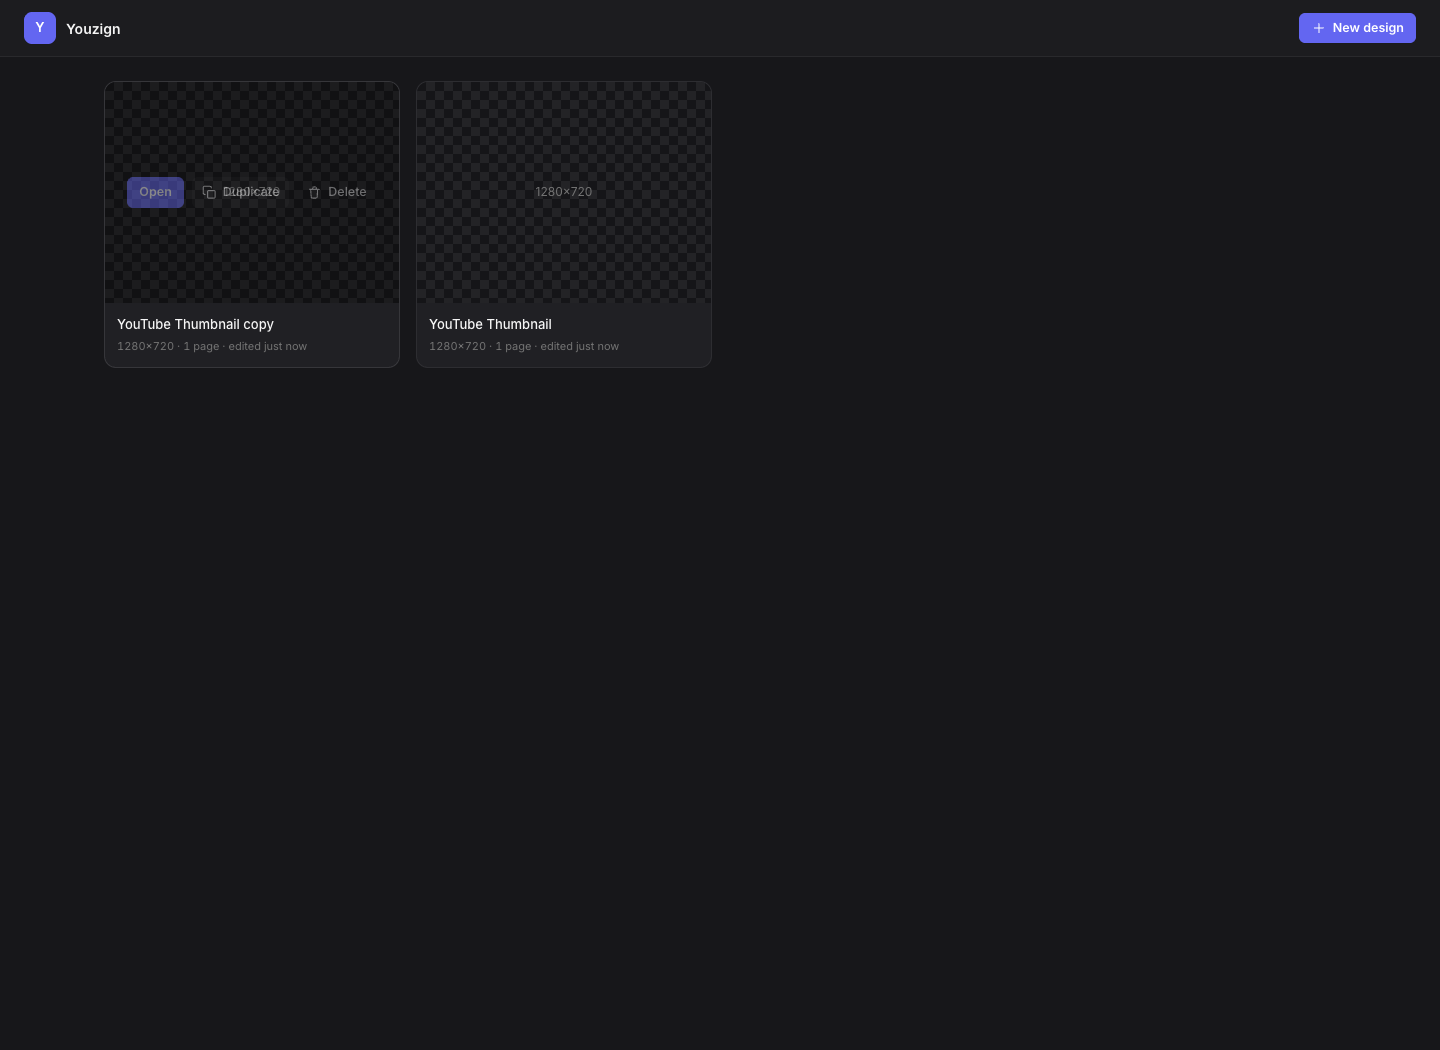
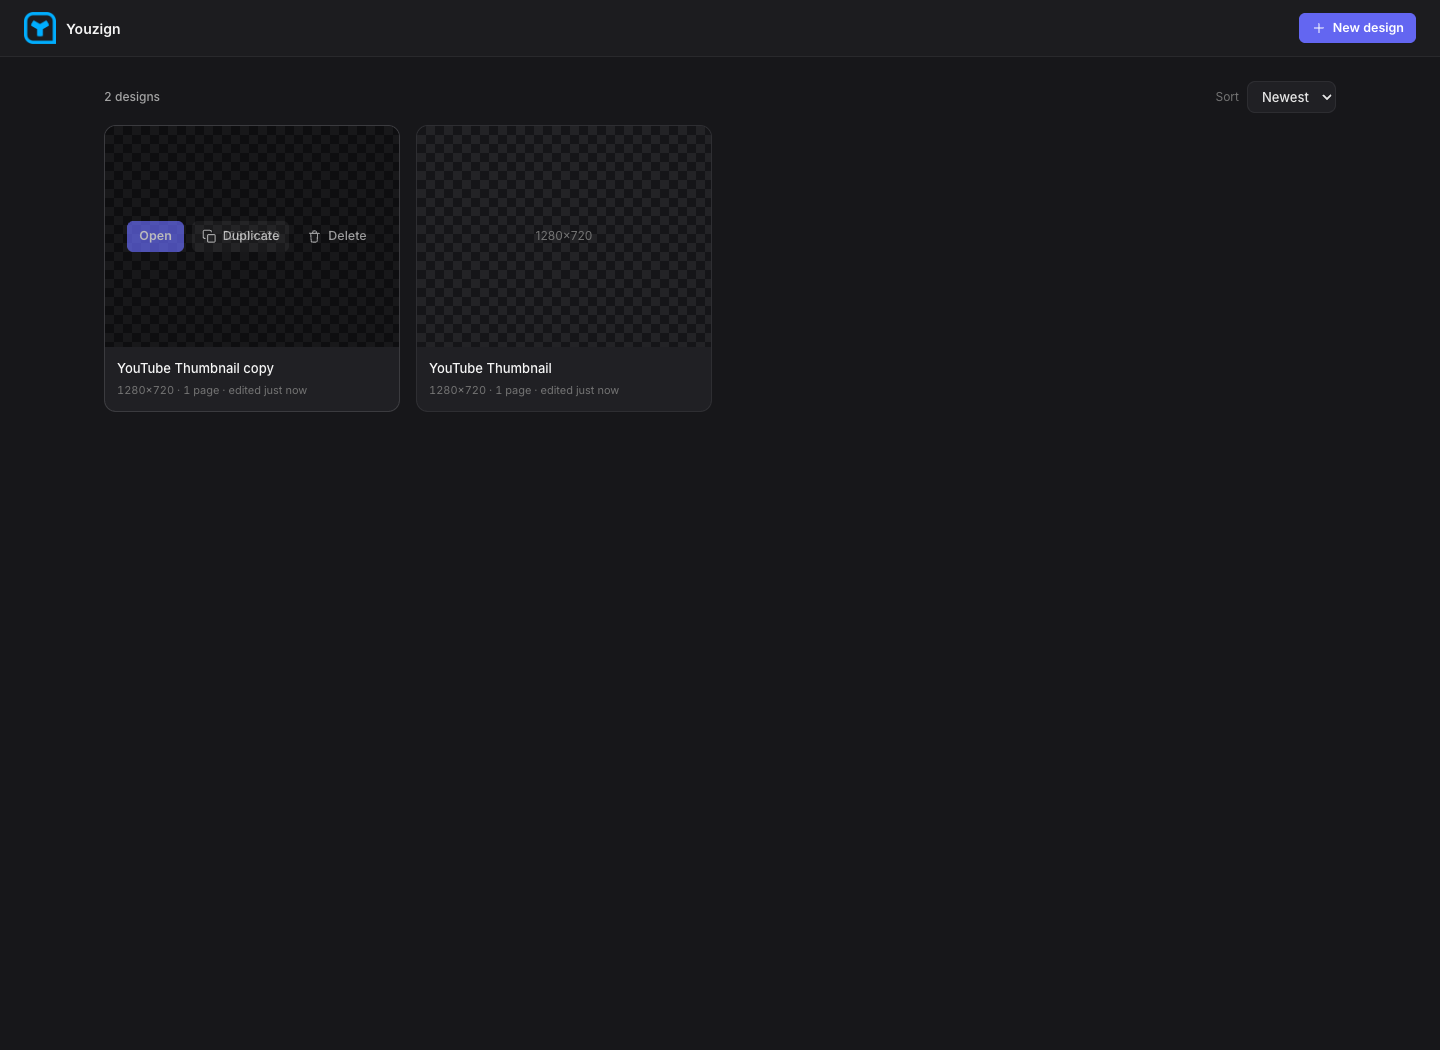
feat(editor): dashboard pagination/sort, crop UX, A.I. rename, header parity
Pagination (24/page, calm pager) + Newest/Oldest sort; dbl-click-crop
removed (edge handles own it); edge handles now rounded pill bars;
Magic Edit toolbar 380px floor (usable prompt on small images); corner
radius preset chips 10/20/40; 'Magic'→'A.I.'; dashboard/editor headers
pinned to identical 49px so the chrome reads static across screens.

diff --git a/apps/editor/src/components/Dashboard.tsx b/apps/editor/src/components/Dashboard.tsx
@@ -10,13 +10,18 @@ import {
 } from "@youzign/editor-core";
 import {
   allDocuments,
+  DASHBOARD_PAGE_SIZE,
   deleteDocument,
   documentMetaLine,
+  pageCount,
+  pageDocuments,
   duplicateRecord,
   migrateLocalStorageAutosaves,
   onDocumentsChanged,
   putDocument,
   shapeDocumentRecord,
+  sortDocuments,
+  type DocumentSortOrder,
   type DocumentRecord,
 } from "../library/documents.js";
 import { fileToUploadRecord, isAcceptedFile } from "../library/uploads.js";
@@ -328,6 +333,8 @@ function NewDesignModal({ onClose }: { onClose: () => void }) {
 export function Dashboard() {
   const [docs, setDocs] = useState<DocumentRecord[]>([]);
   const [modal, setModal] = useState(false);
+  const [sortOrder, setSortOrder] = useState<DocumentSortOrder>("newest");
+  const [page, setPage] = useState(1);
 
   const refresh = async () => setDocs(await allDocuments());
 
@@ -337,12 +344,30 @@ export function Dashboard() {
   }, []);
 
   const quick = QUICK_PRESETS.map((id) => CANVAS_PRESETS.find((p) => p.id === id)).filter(Boolean) as CanvasPreset[];
+  const sortedDocs = useMemo(() => sortDocuments(docs, sortOrder), [docs, sortOrder]);
+  const pages = pageCount(sortedDocs.length, DASHBOARD_PAGE_SIZE);
+  const currentPage = Math.min(page, Math.max(1, pages));
+  const visibleDocs = useMemo(
+    () => pageDocuments(sortedDocs, currentPage, DASHBOARD_PAGE_SIZE),
+    [sortedDocs, currentPage]
+  );
+  const docCountLabel = `${docs.length} ${docs.length === 1 ? "design" : "designs"}`;
+
+  useEffect(() => {
+    setPage(1);
+  }, [sortOrder]);
+
+  useEffect(() => {
+    if (page > Math.max(1, pages)) setPage(Math.max(1, pages));
+  }, [page, pages]);
 
   return (
     <div className="min-h-full bg-[#17171a] text-neutral-200">
-      <header className="sticky top-0 z-10 flex items-center justify-between border-b border-white/[0.06] bg-[#1c1c1f] px-6 py-3">
+      {/* Same paddings/logo size as the editor TopBar so the header reads as
+          static when switching between dashboard and editor. */}
+      <header className="sticky top-0 z-10 flex h-[49px] items-center justify-between border-b border-white/[0.06] bg-[#1c1c1f] px-3">
         <div className="flex items-center gap-2.5">
-          <img src="/brand/youzign-logo.png" alt="Youzign" className="h-8 w-8" />
+          <img src="/brand/youzign-logo.png" alt="Youzign" className="h-7 w-7" />
           <span className="text-[14px] font-semibold text-neutral-100">Youzign</span>
         </div>
         <button className={accentBtn} onClick={() => setModal(true)} data-testid="new-design">
@@ -352,11 +377,61 @@ export function Dashboard() {
 
       <main className="mx-auto max-w-7xl px-6 py-6">
         {docs.length > 0 ? (
-          <div className="grid grid-cols-1 gap-4 sm:grid-cols-2 lg:grid-cols-3 xl:grid-cols-4" data-testid="dashboard-grid">
-            {docs.map((rec) => (
-              <DesignCard key={rec.id} rec={rec} onRefresh={() => void refresh()} />
-            ))}
-          </div>
+          <>
+            <div className="mb-3 flex items-center justify-between gap-3">
+              <div className="text-[12px] font-medium tabular-nums text-neutral-400">{docCountLabel}</div>
+              <label className="flex items-center gap-2 text-[12px] text-neutral-500">
+                <span>Sort</span>
+                <select
+                  value={sortOrder}
+                  onChange={(e) => setSortOrder(e.target.value as DocumentSortOrder)}
+                  className="rounded-lg border border-white/[0.06] bg-[#202024] px-2.5 py-1.5 text-[13px] font-medium text-neutral-200 outline-none transition-colors duration-150 hover:border-white/15 focus:border-[var(--accent)]"
+                >
+                  <option value="newest">Newest</option>
+                  <option value="oldest">Oldest</option>
+                </select>
+              </label>
+            </div>
+            <div className="grid grid-cols-1 gap-4 sm:grid-cols-2 lg:grid-cols-3 xl:grid-cols-4" data-testid="dashboard-grid">
+              {visibleDocs.map((rec) => (
+                <DesignCard key={rec.id} rec={rec} onRefresh={() => void refresh()} />
+              ))}
+            </div>
+            {pages > 1 && (
+              <nav className="mt-5 flex items-center justify-center gap-1" aria-label="Design pages">
+                <button
+                  className="flex h-8 min-w-8 items-center justify-center rounded-lg px-2 text-[13px] font-medium text-neutral-400 transition-colors duration-150 hover:bg-white/[0.06] hover:text-neutral-100 disabled:pointer-events-none disabled:opacity-35"
+                  onClick={() => setPage((p) => Math.max(1, p - 1))}
+                  disabled={currentPage === 1}
+                  aria-label="Previous page"
+                >
+                  ‹
+                </button>
+                {Array.from({ length: pages }, (_, i) => i + 1).map((p) => (
+                  <button
+                    key={p}
+                    className={`flex h-8 min-w-8 items-center justify-center rounded-lg px-2 text-[13px] font-medium tabular-nums transition-colors duration-150 ${
+                      p === currentPage
+                        ? "bg-[var(--accent)] text-white"
+                        : "text-neutral-400 hover:bg-white/[0.06] hover:text-neutral-100"
+                    }`}
+                    onClick={() => setPage(p)}
+                    aria-current={p === currentPage ? "page" : undefined}
+                  >
+                    {p}
+                  </button>
+                ))}
+                <button
+                  className="flex h-8 min-w-8 items-center justify-center rounded-lg px-2 text-[13px] font-medium text-neutral-400 transition-colors duration-150 hover:bg-white/[0.06] hover:text-neutral-100 disabled:pointer-events-none disabled:opacity-35"
+                  onClick={() => setPage((p) => Math.min(pages, p + 1))}
+                  disabled={currentPage === pages}
+                  aria-label="Next page"
+                >
+                  ›
+                </button>
+              </nav>
+            )}
+          </>
         ) : (
           <section>
             <div className="mb-3 text-[13px] font-medium text-neutral-300">Start a new design</div>

diff --git a/apps/editor/src/components/CanvasStage.tsx b/apps/editor/src/components/CanvasStage.tsx
@@ -129,7 +129,6 @@ export function CanvasStage() {
   const applyMagicBlur = useEditor((s) => s.applyMagicBlur);
   const cancelMagicBlur = useEditor((s) => s.cancelMagicBlur);
   const bgProcessingUids = useEditor((s) => s.bgProcessingUids);
-  const beginCrop = useEditor((s) => s.beginCrop);
   const cancelCrop = useEditor((s) => s.cancelCrop);
   const commitCrop = useEditor((s) => s.commitCrop);
   const addPhoto = useEditor((s) => s.addPhoto);
@@ -431,10 +430,6 @@ export function CanvasStage() {
       setEditing(uid);
       return;
     }
-    if (item.type === "image") {
-      beginCrop(uid);
-      return;
-    }
     if (item.type === "group") {
       // Drill into the topmost child under the cursor.
       const group = findGroup(design, uid);
@@ -647,13 +642,19 @@ export function CanvasStage() {
               const showHandles = selectedIsTopLevel && !isText && !locked;
               const showRotate = selectedIsTopLevel && !locked;
               const isImageSel = singleItem?.type === "image";
-              const handleVisual: CSSProperties = {
-                width: 12,
-                height: 12,
+              const handleFill: CSSProperties = {
                 background: "#fff",
                 border: "1.5px solid var(--accent)",
-                borderRadius: 3,
                 boxShadow: "0 1px 3px rgba(0,0,0,0.35)",
+              };
+              const handleVisual = (id: HandleId): CSSProperties => {
+                if (id === "n" || id === "s") {
+                  return { ...handleFill, width: 18, height: 5, borderRadius: 999 };
+                }
+                if (id === "e" || id === "w") {
+                  return { ...handleFill, width: 5, height: 18, borderRadius: 999 };
+                }
+                return { ...handleFill, width: 12, height: 12, borderRadius: 3 };
               };
               const renderHandle = (id: HandleId) => (
                 <div
@@ -674,7 +675,7 @@ export function CanvasStage() {
                   }}
                   onPointerDown={(e) => startTransform(e, single, "resize", id)}
                 >
-                  <div style={handleVisual} />
+                  <div style={handleVisual(id)} />
                 </div>
               );
               return (
@@ -1370,9 +1371,16 @@ function MagicEraseOverlay({
           style={{ position: "absolute", inset: 0, width: dispW, height: dispH, pointerEvents: "none" }}
         />
       </div>
-      {/* toolbar */}
+      {/* toolbar — never narrower than 380px so the Edit prompt stays usable
+          on small images; centered under the item when wider than it. */}
       <div
-        style={{ position: "absolute", left: px(boxLeft), top: px(boxTop + item.height) + 8, width: dispW }}
+        style={{
+          position: "absolute",
+          left: px(boxLeft + item.width / 2),
+          top: px(boxTop + item.height) + 8,
+          width: Math.max(dispW, 380),
+          transform: "translateX(-50%)",
+        }}
         onPointerDown={(e) => e.stopPropagation()}
       >
         <div className="flex items-center gap-3 rounded-lg bg-neutral-900/95 px-3 py-2 shadow-lg ring-1 ring-white/10">

diff --git a/apps/editor/src/components/PropertiesPanel.tsx b/apps/editor/src/components/PropertiesPanel.tsx
@@ -368,13 +368,30 @@ function CornerRadiusBlock({ any, patch }: { any: any; patch: (p: ItemPatch) => 
           />
         </div>
       ) : (
-        <NumberField
-          label="Radius"
-          value={tl}
-          onChange={(v) => setAll(Math.max(0, v))}
-          min={0}
-          unit="px"
-        />
+        <div className="flex items-center gap-1.5">
+          <div className="min-w-0 flex-1">
+            <NumberField
+              label="Radius"
+              value={tl}
+              onChange={(v) => setAll(Math.max(0, v))}
+              min={0}
+              unit="px"
+            />
+          </div>
+          {[10, 20, 40].map((v) => (
+            <button
+              key={v}
+              onClick={() => setAll(v)}
+              className={`h-7 rounded-md px-2 text-[11px] tabular-nums transition-colors duration-150 ${
+                tl === v
+                  ? "bg-[var(--accent)] text-white"
+                  : "bg-white/[0.06] text-neutral-300 hover:bg-white/[0.1]"
+              }`}
+            >
+              {v}
+            </button>
+          ))}
+        </div>
       )}
     </div>
   );
@@ -790,7 +807,7 @@ function MagicSection({ uid }: { uid: number }) {
       <Divider />
       <SectionLabel>
         <span className="inline-flex items-center gap-1.5">
-          <Icon name="sparkles" size={13} /> Magic
+          <Icon name="sparkles" size={13} /> A.I.
         </span>
       </SectionLabel>
       <div className="grid grid-cols-3 gap-1.5">
@@ -912,7 +929,7 @@ function MagicSection({ uid }: { uid: number }) {
         <p className="text-[10px] leading-relaxed text-rose-400">{magicError.message}</p>
       ) : !hasFal ? (
         <p className="text-[10px] leading-relaxed text-neutral-500">
-          Magic AI tools need fal.ai —{" "}
+          A.I. tools need fal.ai —{" "}
           <a href={FAL_KEY_URL} target="_blank" rel="noreferrer" className="text-[var(--accent)] hover:underline">
             Connect fal.ai
           </a>{" "}
@@ -1121,7 +1138,7 @@ export function PropertiesPanel() {
             </p>
           )}
           {any.cropped && (
-            <p className="text-[10px] text-neutral-500">Cropped · double-click to re-crop</p>
+            <p className="text-[10px] text-neutral-500">Cropped · use Crop image to re-crop</p>
           )}
         </section>
       )}

diff --git a/apps/editor/test/documents.test.ts b/apps/editor/test/documents.test.ts
@@ -4,9 +4,12 @@ import {
   documentMetaLine,
   editorDocumentFromRecord,
   migrationRecordsFromStorage,
+  pageCount,
+  pageDocuments,
   recordFromAutosave,
   relativeEditedTime,
   shapeDocumentRecord,
+  sortDocuments,
 } from "../src/library/documents.js";
 import { LS_PREFIX } from "../src/store.js";
 
@@ -106,5 +109,39 @@ describe("dashboard time and meta formatting", () => {
       now: 0,
     });
     expect(documentMetaLine(rec, 2 * 60 * 60_000)).toBe("1200×1002 · 3 pages · edited 2h ago");
+  });
+});
+
+describe("dashboard sorting and pagination", () => {
+  it("sorts records by updatedAt newest or oldest without mutating input", () => {
+    const records = [
+      { id: "a", updatedAt: 200 },
+      { id: "b", updatedAt: 300 },
+      { id: "c", updatedAt: 100 },
+    ];
+
+    expect(sortDocuments(records, "newest").map((r) => r.id)).toEqual(["b", "a", "c"]);
+    expect(sortDocuments(records, "oldest").map((r) => r.id)).toEqual(["c", "a", "b"]);
+    expect(records.map((r) => r.id)).toEqual(["a", "b", "c"]);
+  });
+
+  it("slices dashboard pages and clamps out-of-range page numbers", () => {
+    const records = Array.from({ length: 7 }, (_, i) => `doc-${i + 1}`);
+
+    expect(pageDocuments(records, 1, 3)).toEqual(["doc-1", "doc-2", "doc-3"]);
+    expect(pageDocuments(records, 2, 3)).toEqual(["doc-4", "doc-5", "doc-6"]);
+    expect(pageDocuments(records, 3, 3)).toEqual(["doc-7"]);
+    expect(pageDocuments(records, 99, 3)).toEqual(["doc-7"]);
+    expect(pageDocuments(records, 0, 3)).toEqual(["doc-1", "doc-2", "doc-3"]);
+  });
+
+  it("counts pages across empty, partial, exact, and invalid page-size cases", () => {
+    expect(pageCount(0, 24)).toBe(0);
+    expect(pageCount(1, 24)).toBe(1);
+    expect(pageCount(24, 24)).toBe(1);
+    expect(pageCount(25, 24)).toBe(2);
+    expect(pageCount(48, 24)).toBe(2);
+    expect(pageCount(49, 24)).toBe(3);
+    expect(pageCount(12, 0)).toBe(0);
   });
 });

diff --git a/apps/editor/src/library/documents.ts b/apps/editor/src/library/documents.ts
@@ -25,6 +25,10 @@ export interface RecordDraft {
   now?: number;
 }
 
+export type DocumentSortOrder = "newest" | "oldest";
+
+export const DASHBOARD_PAGE_SIZE = 24;
+
 const DB_NAME = "youzign-docs";
 const DB_VERSION = 1;
 const STORE = "documents";
@@ -130,6 +134,30 @@ export function duplicateRecord(rec: DocumentRecord, now = Date.now()): Document
   };
 }
 
+export function sortDocuments<T extends Pick<DocumentRecord, "updatedAt">>(
+  records: readonly T[],
+  order: DocumentSortOrder = "newest"
+): T[] {
+  const dir = order === "newest" ? -1 : 1;
+  return [...records].sort((a, b) => (a.updatedAt - b.updatedAt) * dir);
+}
+
+export function pageCount(total: number, pageSize = DASHBOARD_PAGE_SIZE): number {
+  if (pageSize <= 0) return 0;
+  return Math.ceil(Math.max(0, total) / pageSize);
+}
+
+export function pageDocuments<T>(
+  records: readonly T[],
+  page: number,
+  pageSize = DASHBOARD_PAGE_SIZE
+): T[] {
+  if (pageSize <= 0) return [];
+  const current = Math.min(Math.max(1, page), Math.max(1, pageCount(records.length, pageSize)));
+  const start = (current - 1) * pageSize;
+  return records.slice(start, start + pageSize);
+}
+
 function openDb(): Promise<IDBDatabase> {
   return new Promise((resolve, reject) => {
     const req = indexedDB.open(DB_NAME, DB_VERSION);
@@ -171,7 +199,7 @@ export async function allDocuments(): Promise<DocumentRecord[]> {
   if (!hasIDB()) return [];
   try {
     const all = await tx<DocumentRecord[]>("readonly", (s) => s.getAll() as any);
-    return all.sort((a, b) => b.updatedAt - a.updatedAt);
+    return sortDocuments(all, "newest");
   } catch {
     return [];
   }

diff --git a/apps/editor/src/components/TopBar.tsx b/apps/editor/src/components/TopBar.tsx
@@ -55,7 +55,7 @@ export function TopBar({
   };
 
   return (
-    <header className="flex items-center gap-3 border-b border-white/[0.06] bg-[#1c1c1f] px-3 py-2">
+    <header className="flex h-[49px] items-center gap-3 border-b border-white/[0.06] bg-[#1c1c1f] px-3">
       {/* brand + doc name */}
       <div className="flex items-center gap-2.5">
         <button
